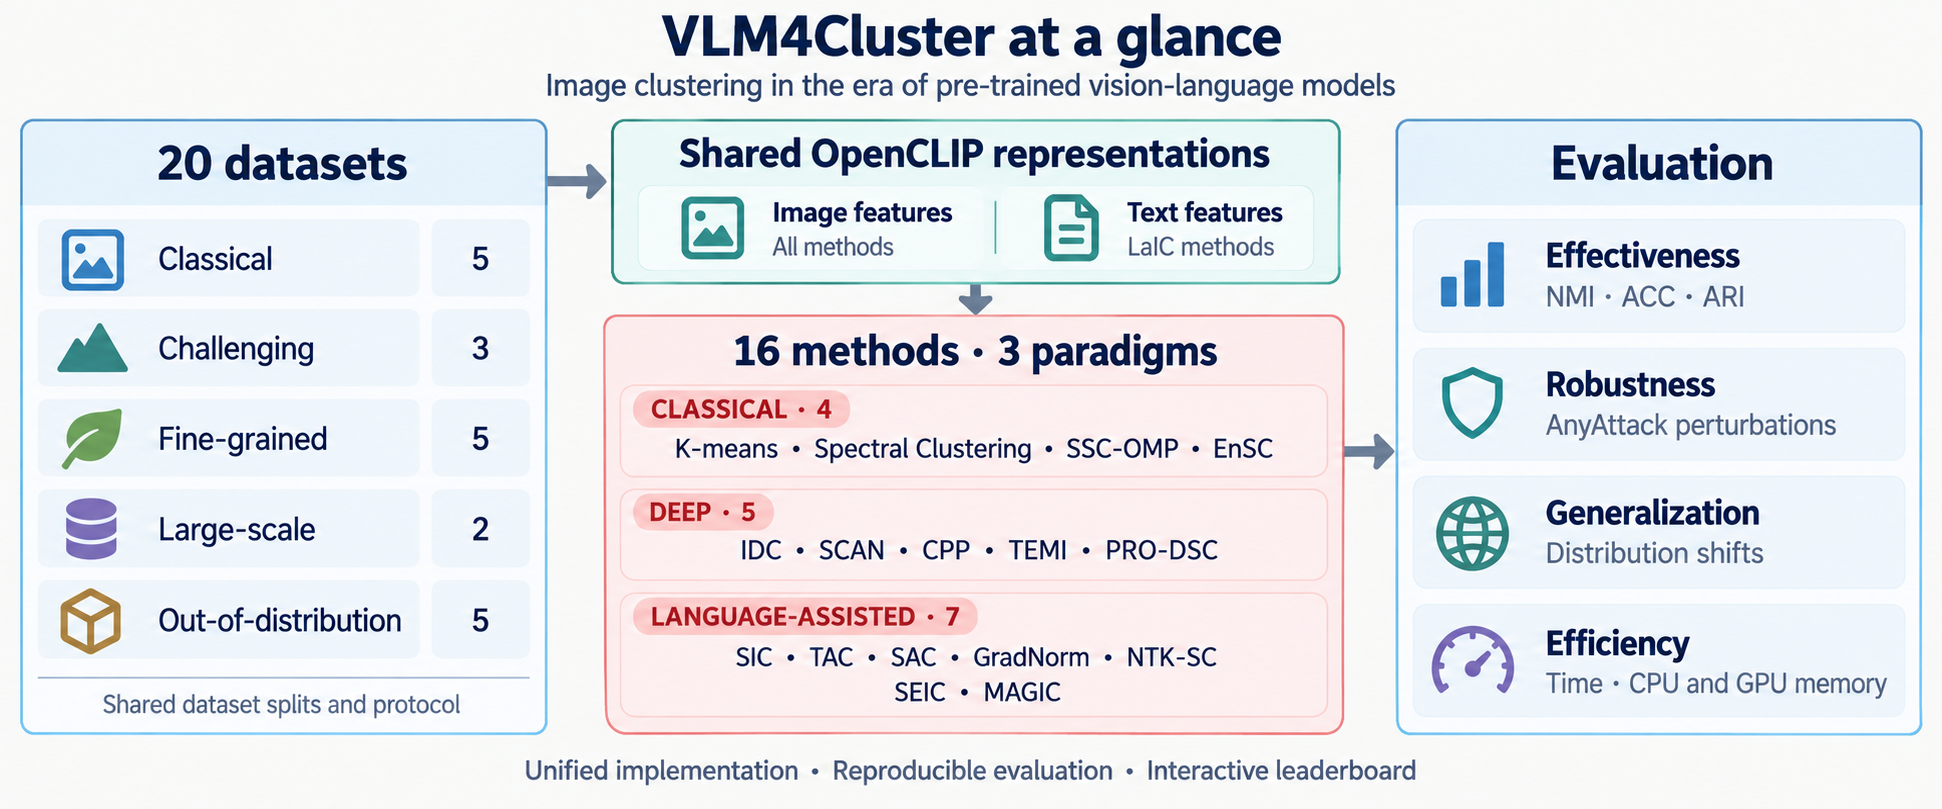
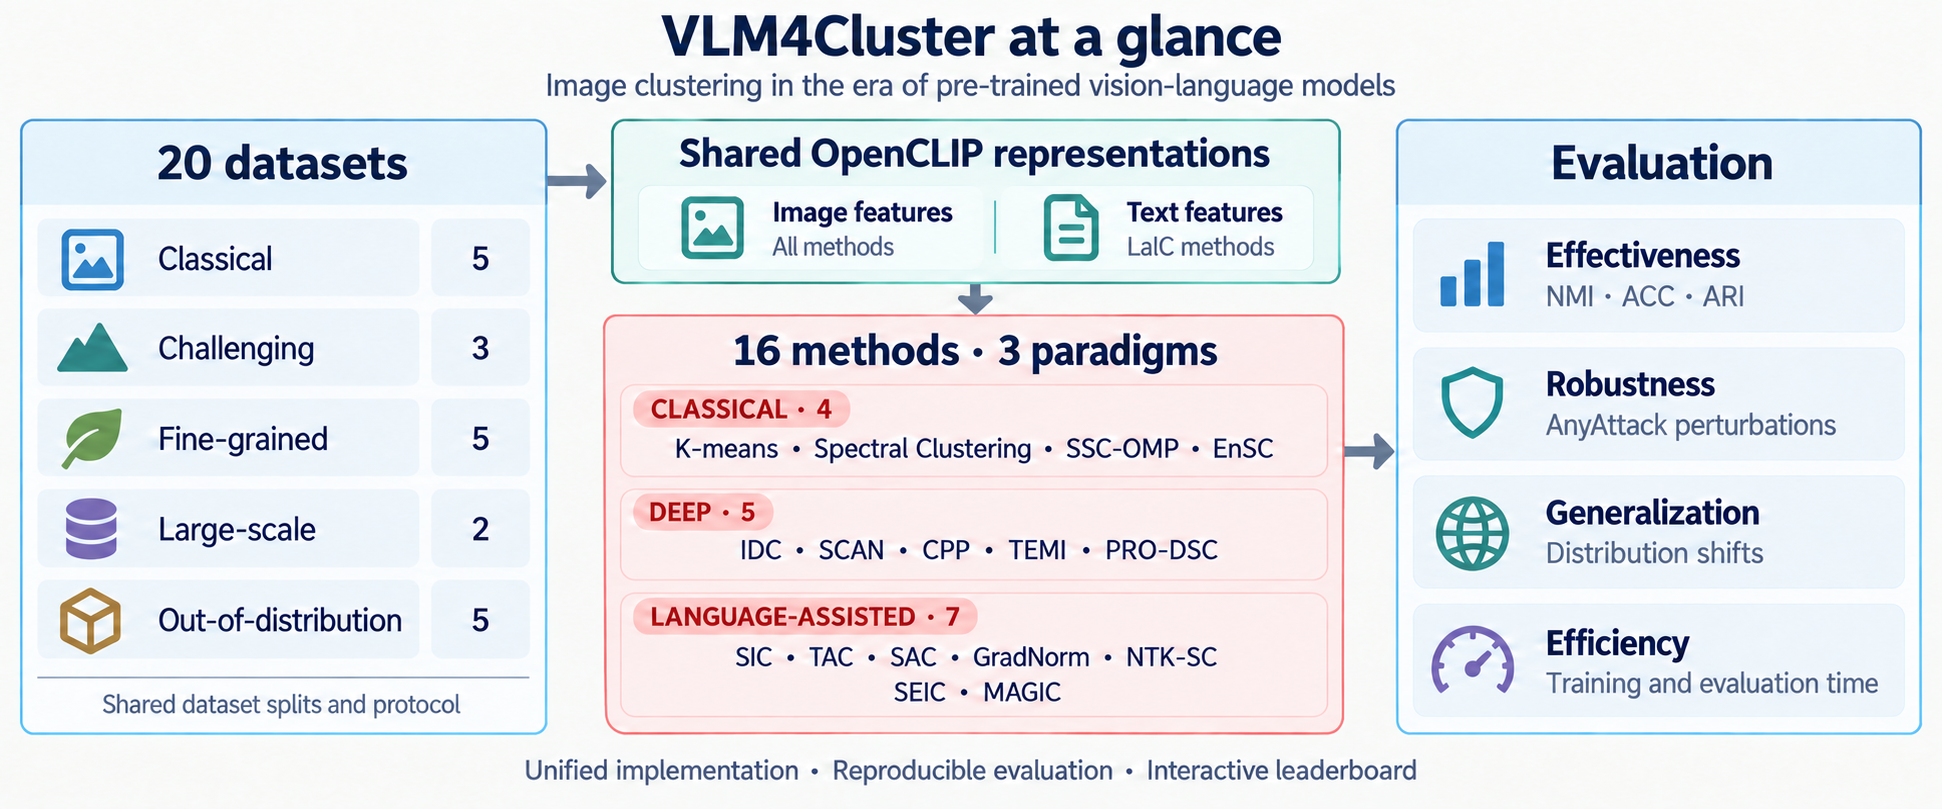
Report time efficiency on common hardware

diff --git a/README.md b/README.md
@@ -6,7 +6,7 @@ VLM4Cluster supports systematic and reproducible evaluation of classical, deep,
 and language-assisted image clustering (LaIC) methods within a unified codebase.
 Its core benchmark brings together **16 representative methods** and **20 datasets**,
 with evaluation spanning **effectiveness, adversarial robustness, generalization
-under distribution shifts, and time and memory efficiency**.
+under distribution shifts, and time efficiency**.
 
 [Overview](#overview) |
 [Methods](#supported-methods) |
@@ -37,7 +37,7 @@ VLM4Cluster addresses these challenges through:
   fine-grained, 2 large-scale, and 5 out-of-distribution (OOD) datasets.
 - **Evaluation beyond effectiveness.** Alongside NMI, ACC, and ARI, the framework
   supports AnyAttack adversarial evaluation, ImageNet domain-shift evaluation,
-  and time and memory measurements for ImageNet-1K experiments.
+  and time efficiency measurements for ImageNet-1K experiments.
 - **An interactive leaderboard.** Results are organized by dataset, method,
   metric, and vision-language model setting. Explore the
   [leaderboard](https://vlm4cluster-leaderboard.yuanwei-hu.chatgpt.site).
@@ -325,18 +325,13 @@ token to prevent reuse of clean-image caches.
 
 ## Efficiency measurements
 
-Only ImageNet-1K experiments record efficiency data in the `efficiency` field of
+Only ImageNet-1K experiments record time efficiency data in the `efficiency` field of
 the completed `report.json`; this field is `null` for other datasets.
 `train_eval_time_seconds` measures the combined time for method training and
-final evaluation inference. `peak_cpu_memory_mb` measures process-tree RSS, and
-`peak_gpu_memory_mb` measures peak CUDA allocated memory. Both memory values are
-reported in MiB.
-
-The memory measurement window covers dataset preparation, model loading, shared
-OpenCLIP feature encoding, method training, final inference, and metric
-calculation. Measurement pauses only while AnyAttack adversarial images are
-actually being generated. When a training-based method reuses a checkpoint,
-inference-only time is not reported as full training-and-evaluation efficiency.
+final evaluation inference. AnyAttack adversarial image generation is excluded
+from this timing. All methods are measured on the same hardware.
+When a training-based method reuses a checkpoint, inference-only time is not
+reported as full training-and-evaluation efficiency.
 
 ## Leaderboard
 

diff --git a/docs/reproduction.md b/docs/reproduction.md
@@ -243,7 +243,7 @@ the reproduction guide:
 | TAC / TAC* | Preserve the explicit `train_cluster_heads` flag with the result. |
 | SEIC | `stage2=false` runs Stage 1 only. `method.stage2=true` enables self-enhancement; it is a separate variant that updates visual LoRA parameters. |
 | Spectral Clustering | The default graph is dense. `method.graph_k=30 method.affinity_tau=0.04` selects the documented sparse setting and changes the experiment. |
-| NTK-SC | Record the actual diffusion backend and graph parameters selected for the run, especially when comparing time and memory. |
+| NTK-SC | Record the actual diffusion backend and graph parameters selected for the run, especially when comparing runtime. |
 | `internal_metrics_only=true` | Reports SIL/DBI/CHI in the final evaluator. It does not alter the above training or selection choices, or remove the assumed cluster count. |
 
 Small sample limits can be useful for debugging, but should be labeled as such.
@@ -349,5 +349,5 @@ they are not substitutes for the VLM4Cluster commit that generated a result.
 Only ImageNet-1K runs produce the framework's `efficiency` measurements; other
 datasets report `null`. A checkpoint-reuse run must not be presented as full
 training-and-evaluation timing. See the
-[measurement definitions](../README.md#efficiency-measurements) for timing and
-memory scopes.
+[measurement definitions](../README.md#efficiency-measurements) for the timing
+scope.

diff --git a/docs/results.md b/docs/results.md
@@ -57,15 +57,14 @@ this snapshot. Set `attack.eps=0.03137254901960784` (8 divided by 255) to state
 the budget explicitly in a reproduction command.
 
 Seventeen ImageNet-1K AnyAttack rows additionally include combined training and
-evaluation time in **minutes**, peak CPU memory in **GiB**, and peak GPU memory
-in **GiB**. The framework's report fields use seconds and MiB; compare quantities
-after converting their units. These efficiency records were provided alongside
+evaluation time in **minutes**. The framework's timing field uses seconds;
+compare durations after converting their units. These time efficiency records were provided alongside
 the experiment results and are not regenerated from per-run reports by the
 leaderboard.
 
-NTK-SC efficiency was measured on a different compute node from the other
-methods. These records are not a controlled comparison on identical hardware.
-Other datasets and tracks have no efficiency measurements in this snapshot.
+All methods, including NTK-SC, were measured on the same hardware. AnyAttack
+adversarial image generation is excluded from the reported time.
+Other datasets and tracks have no time efficiency measurements in this snapshot.
 
 Use the [reproduction guide](reproduction.md) for experiment commands and the
 [method notes](methods.md#what-the-benchmark-implementation-runs) for adaptation
